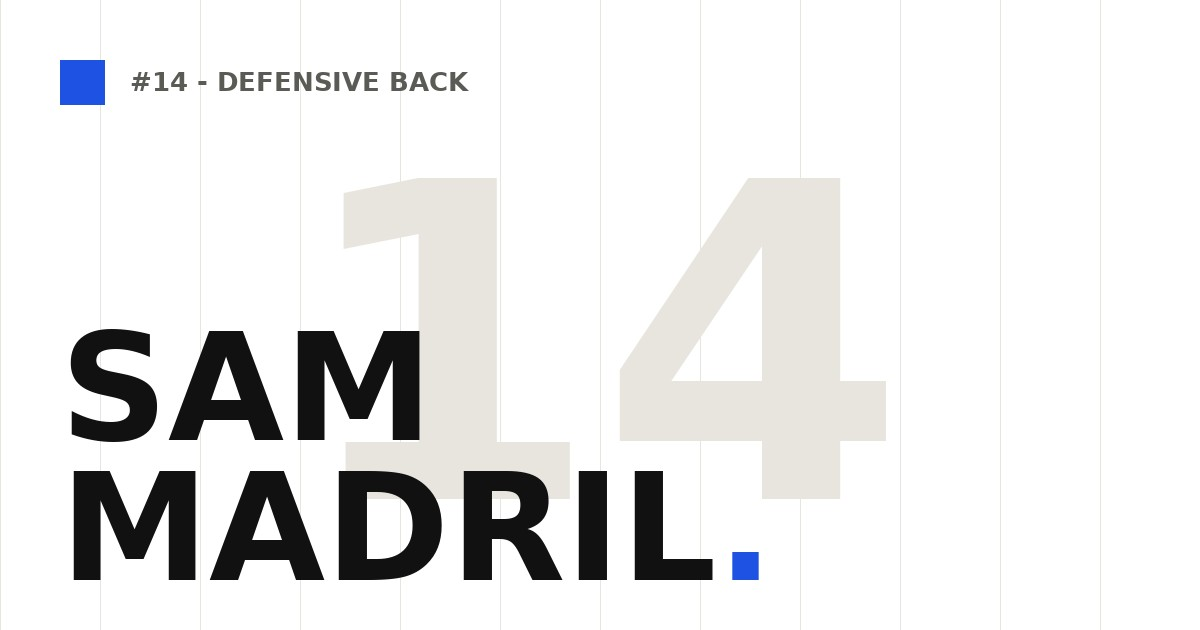
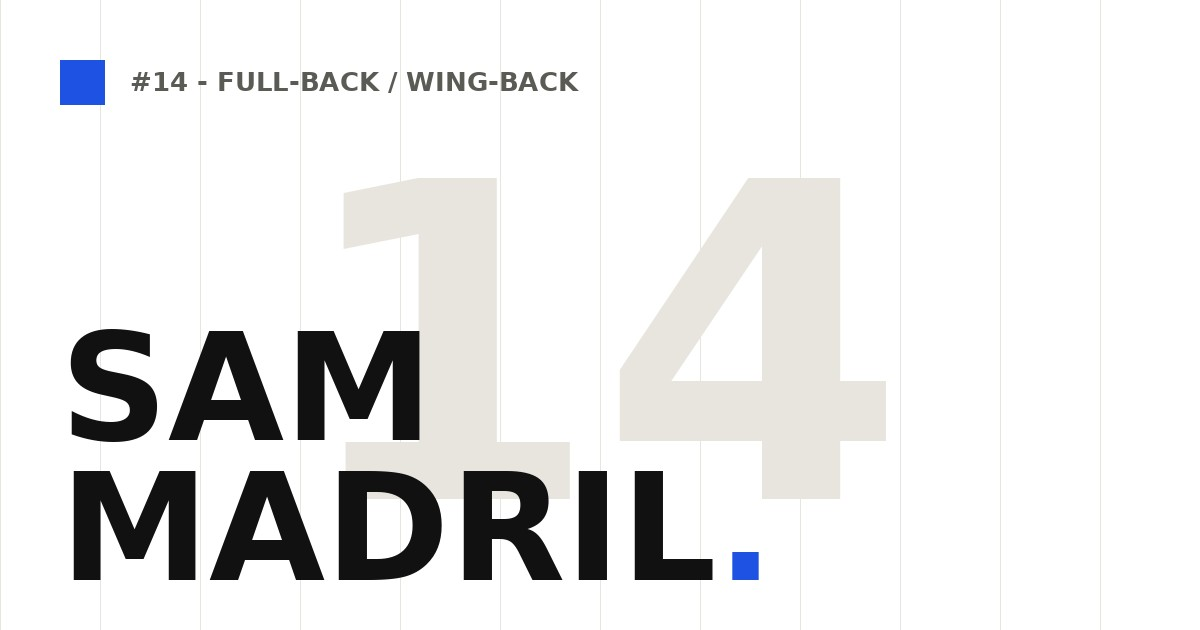
Add files via upload

Changed region(s): [[0.185, 0.0905, 0.4933, 0.1508]]

diff --git a/index.html b/index.html
@@ -266,7 +266,7 @@
         <div class="stat"><span class="lab">Team</span><span class="val">Albion Riverside</span></div>
         <div class="stat"><span class="lab">Age Group</span><span class="val">2011 MLS Next</span></div>
         <div class="stat"><span class="lab">Position</span><span class="val">Full-Back / Wing-Back</span></div>
-        <div class="stat"><span class="lab">High School</span><div class="valwrap"><span class="val">North HS</span><span class="sub">GPA [0.00]</span></div></div>
+        <div class="stat"><span class="lab">High School</span><div class="valwrap"><span class="val">North HS</span><span class="sub">GPA 4.0</span></div></div>
         <div class="stat"><span class="lab">HS Coach</span><span class="val">TBD</span></div>
         <div class="stat"><span class="lab">Contact</span><span class="val">[email@example.com]</span></div>
       </div>
